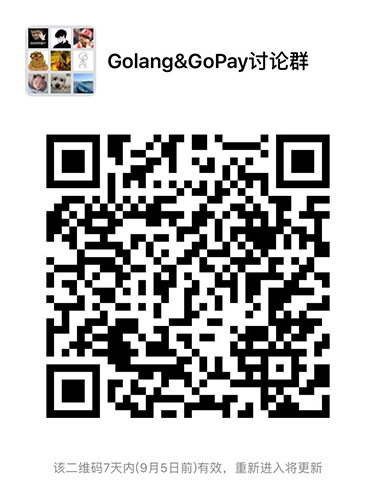
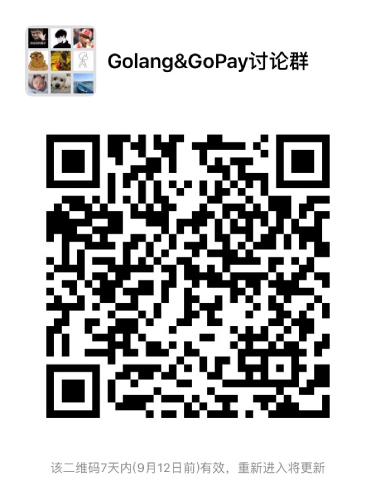
update

diff --git a/README.md b/README.md
@@ -116,12 +116,12 @@ func main() {
 
 * [GoDoc](https://godoc.org/github.com/iGoogle-ink/gopay)
 
-* 有问题请加微信群。在此，非常感谢那些加群后，提出意见和反馈问题的同志们！另外，仅 Fork 的同志顺手点个星呗，您的支持给了我源源不断的动力
+* 有问题请加群。在此，非常感谢那些加群后，提出意见和反馈问题的同志们！另外，仅 Fork 的同志顺手点个星呗，您的支持给了我源源不断的动力
 
-讨论群（如过期请加微信）：
+QQ群：
+<img width="226" height="300" alt="Photo was Loading Faild!" src="https://raw.githubusercontent.com/iGoogle-ink/gopay/master/qq_gopay.png"/>
+微信群：
 <img width="226" height="300" alt="Photo was Loading Faild!" src="https://raw.githubusercontent.com/iGoogle-ink/gopay/master/wechat_gopay.png"/>
-微信：
-<img width="226" height="300" alt="Photo was Loading Faild!" src="https://raw.githubusercontent.com/iGoogle-ink/gopay/master/wechat_jerry.png"/>
 
 ---
 
